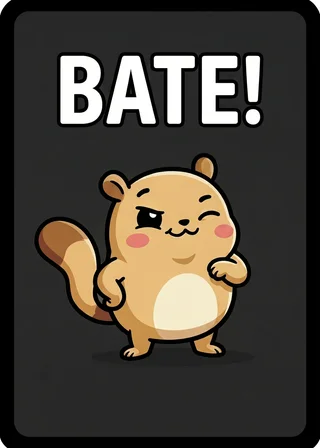
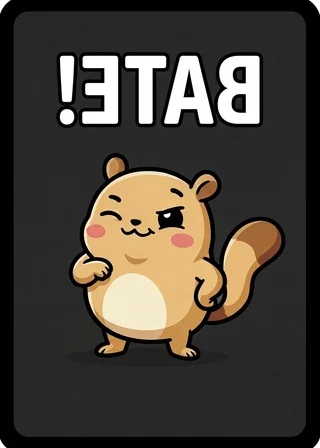
fix(cards): mirror the back PNG at the source instead of via CSS
Flips bate-verso-de-carta.png horizontally with sharp (.flop) so the
asset itself is already mirrored. Regenerates back.webp.

Since the image is now mirrored at the file level, the CSS scaleX(-1)
hacks added previously cancel out double-mirrors. Removed from:
- Card2D back face inner wrapper (was compensating for the 3D flip
  rendering quirk; the pre-mirrored image already renders correctly
  through the rotateY composition)
- DeckPile2D stack (was the manual mirror request; now it's intrinsic
  to the asset)

Cleaner render, no more CSS gymnastics to reason about.

diff --git a/src/components/room2d/DeckPile2D.tsx b/src/components/room2d/DeckPile2D.tsx
@@ -19,7 +19,7 @@ export function DeckPile2D({ count, onClick }: { count: number; onClick?: () => 
           <div
             key={i}
             className="absolute inset-0 rounded-xl overflow-hidden shadow-[0_6px_16px_rgba(0,0,0,0.5)]"
-            style={{ transform: `translate(${i * 1.5}px, ${-i * 1.5}px) scaleX(-1)`, zIndex: i }}
+            style={{ transform: `translate(${i * 1.5}px, ${-i * 1.5}px)`, zIndex: i }}
           >
             <CardBack />
           </div>

diff --git a/src/components/room2d/Card2D.tsx b/src/components/room2d/Card2D.tsx
@@ -83,9 +83,7 @@ export function Card2D({ card, tempRevealedAs = null, onClick, highlighted = fal
         className="absolute inset-0"
         style={{ backfaceVisibility: 'hidden', WebkitBackfaceVisibility: 'hidden', transform: 'rotateY(180deg)' }}
       >
-        <div className="w-full h-full" style={{ transform: 'scaleX(-1)' }}>
-          <CardBack />
-        </div>
+        <CardBack />
       </div>
       {victimEffect && (
         <motion.div
